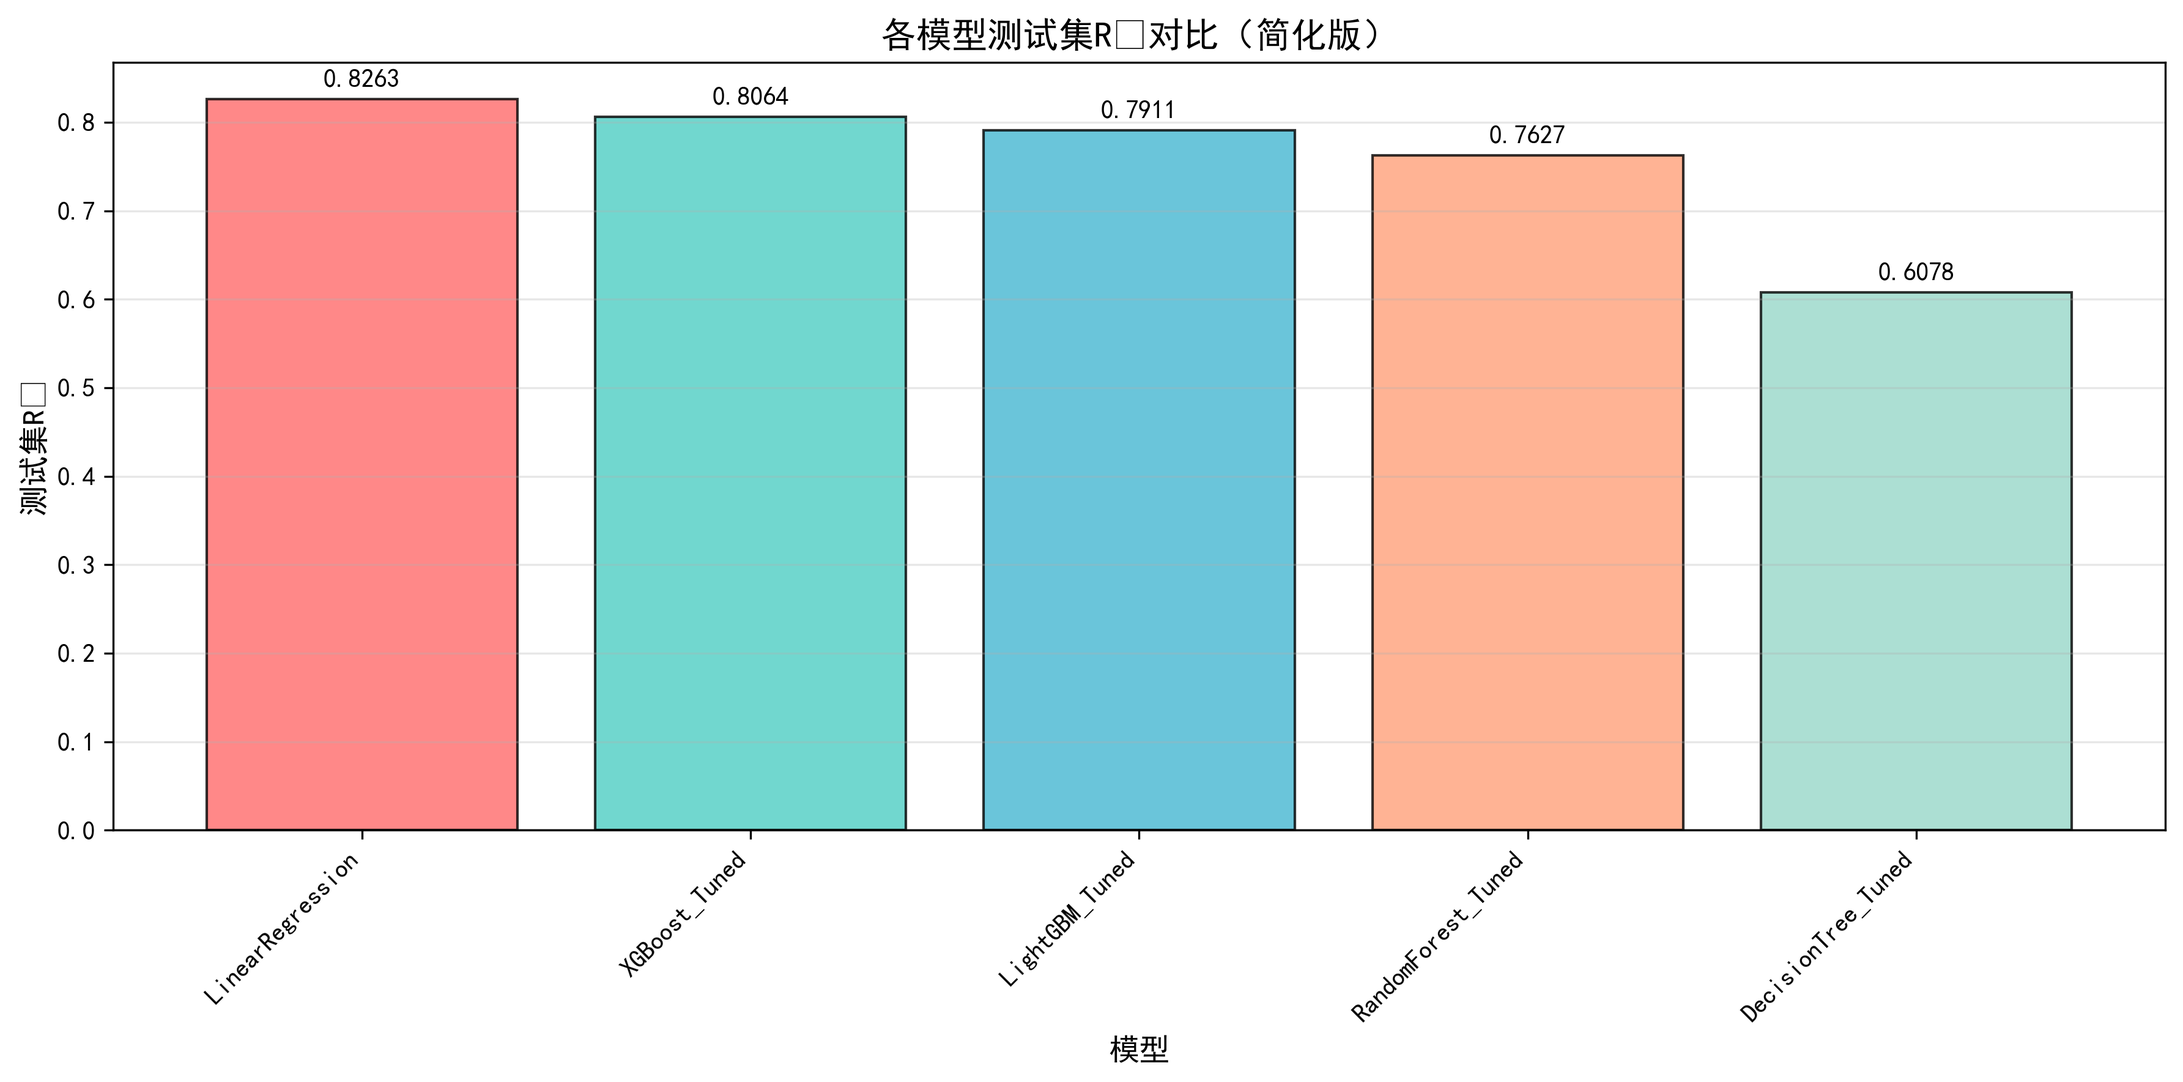
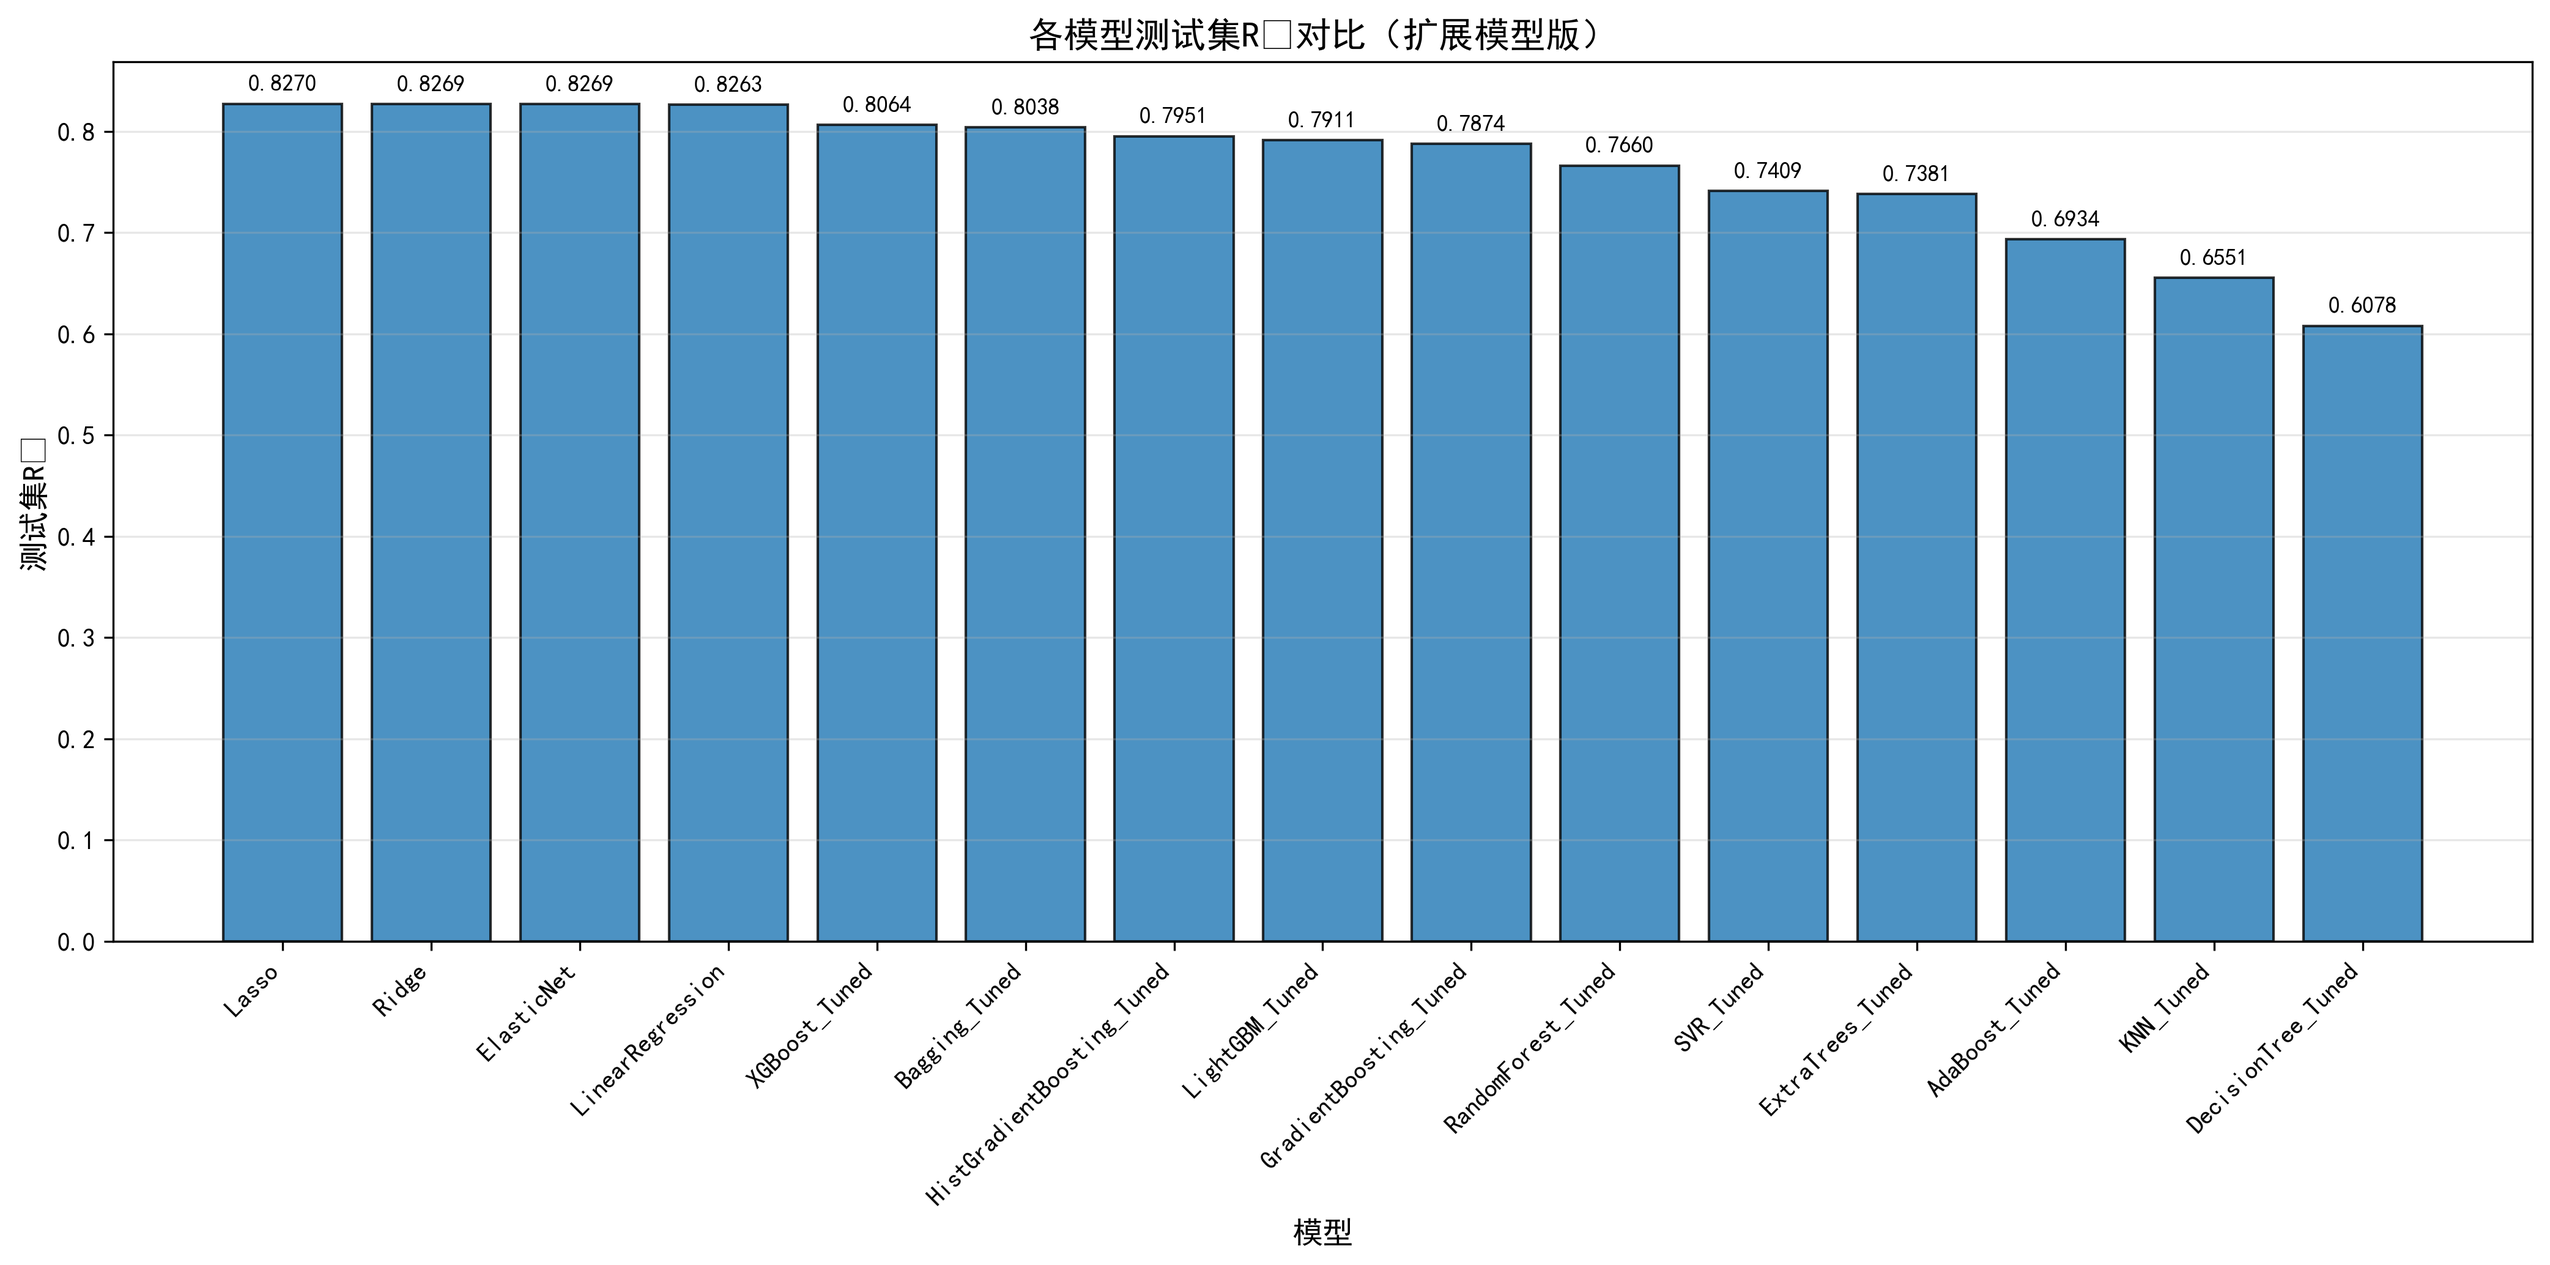
八个模型+网格搜索                        模型   训练集R²   测试集R²  测试集MSE  测试集RMSE 1                   Lasso  0.8295  0.8270  0.3308   0.5752 0        LinearRegression  0.8297  0.8263  0.3322   0.5763 7               SVR_Tuned  0.8512  0.8140  0.3557   0.5964 8           XGBoost_Tuned  0.9225  0.8123  0.3590   0.

diff --git a/T2ShortVideos/test1.py b/T2ShortVideos/test1.py
@@ -10,9 +10,15 @@ import re
 from sklearn.model_selection import train_test_split, cross_val_score, GridSearchCV
 from sklearn.preprocessing import StandardScaler
 from sklearn.metrics import mean_squared_error, r2_score
-from sklearn.linear_model import LinearRegression
+from sklearn.linear_model import LinearRegression, Lasso
 from sklearn.tree import DecisionTreeRegressor
-from sklearn.ensemble import RandomForestRegressor
+from sklearn.ensemble import (
+    RandomForestRegressor,
+    ExtraTreesRegressor,
+    GradientBoostingRegressor,
+    BaggingRegressor,
+)
+from sklearn.svm import SVR
 import xgboost as xgb
 import lightgbm as lgb
 
@@ -21,7 +27,6 @@ warnings.filterwarnings("ignore")
 plt.rcParams["font.sans-serif"] = ["SimHei"]
 plt.rcParams["axes.unicode_minus"] = False
 plt.rcParams["figure.figsize"] = (10, 6)
-
 
 
 # ========================= 1. 数据读取与基础探索 =========================
@@ -40,7 +45,7 @@ def load_and_explore_data(file_path):
     return df
 
 
-# ========================= 2. 特征工程（简化特征，解决区分度不足） =========================
+# ========================= 2. 特征工程（保持原样，不改数据处理方式） =========================
 def feature_engineering(df):
     """特征工程：简化特征维度，避免冗余"""
 
@@ -159,7 +164,7 @@ def feature_engineering(df):
     return df
 
 
-# ========================= 3. 建模数据准备（简化特征维度） =========================
+# ========================= 3. 建模数据准备（保持原样，不改数据处理方式） =========================
 def prepare_model_data(df):
     """准备建模数据：简化特征，避免维度爆炸"""
     # 仅保留核心特征（减少特征数，解决分裂增益问题）
@@ -215,48 +220,52 @@ def prepare_model_data(df):
     )
 
     print(f"建模数据集形状：{model_df.shape}")
-    print(f"最终特征数：{X.shape[1]}个（原23个→现≤15个）")
+    print(f"最终特征数：{X.shape[1]}个")
     print(f"训练集形状：{X_train_final.shape}")
     print(f"测试集形状：{X_test_final.shape}")
     return X_train_final, X_test_final, y_train, y_test, X, numeric_features
 
 
-# ========================= 4. 模型训练与调优（简化网格，解决卡顿） =========================
+# ========================= 4. 模型训练与调优（仅保留指定模型） =========================
 def train_and_tune_models(X_train, X_test, y_train, y_test):
-    """模型训练：简化调优网格，降低计算量"""
-    # 基础模型定义
+    """模型训练：仅保留用户指定模型，并对指定模型做网格搜索调优"""
+
+    # 基础模型：只保留 LinearRegression 和 Lasso
+    # 基础模型：保留 LinearRegression、Lasso，以及 8 个待调优模型的基础版
     base_models = {
         "LinearRegression": LinearRegression(),
-        "DecisionTree": DecisionTreeRegressor(random_state=42, max_depth=3),  # 限制树深度
-        "RandomForest": RandomForestRegressor(n_estimators=50, random_state=42, n_jobs=2, max_depth=5),  # 简化参数
-        "XGBoost": xgb.XGBRegressor(objective="reg:squarederror", random_state=42, n_jobs=2, max_depth=3,
-                                    n_estimators=50),
+        "Lasso": Lasso(alpha=0.001, max_iter=5000),
 
+        "DecisionTree": DecisionTreeRegressor(random_state=42),
+        "RandomForest": RandomForestRegressor(random_state=42, n_jobs=2),
+        "ExtraTrees": ExtraTreesRegressor(random_state=42, n_jobs=2),
+        "GradientBoosting": GradientBoostingRegressor(random_state=42),
+        "Bagging": BaggingRegressor(random_state=42, n_jobs=2),
+        "SVR": SVR(),
+        "XGBoost": xgb.XGBRegressor(
+            objective="reg:squarederror",
+            random_state=42,
+            n_jobs=2
+        ),
         "LightGBM": lgb.LGBMRegressor(
             objective="regression",
             random_state=42,
             n_jobs=2,
-            max_depth=3,
-            n_estimators=30,
-            num_leaves=15,
-            min_split_gain=0.01,  # 新增：最小分裂增益（低于此值不分裂）
-            min_child_weight=0.01,  # 新增：叶子节点最小权重
             verbose=-1
-        )
+        ),
     }
 
-    # 基础模型评估
     def evaluate_base_models(models, X, y):
         results = []
         for name, model in models.items():
-            r2_scores = cross_val_score(model, X, y, scoring="r2", cv=5)  # 简化为3折交叉验证
+            r2_scores = cross_val_score(model, X, y, scoring="r2", cv=5)
             mse_scores = -cross_val_score(model, X, y, scoring="neg_mean_squared_error", cv=5)
             rmse_scores = np.sqrt(mse_scores)
             results.append({
                 "模型": name,
                 "5折R²均值": round(r2_scores.mean(), 4),
                 "5折MSE均值": round(mse_scores.mean(), 4),
-                "5折RMSE均值": round(rmse_scores.mean(), 4)
+                "5折RMSE均值": round(rmse_scores.mean(), 4),
             })
         return pd.DataFrame(results).sort_values("5折R²均值", ascending=False)
 
@@ -266,50 +275,97 @@ def train_and_tune_models(X_train, X_test, y_train, y_test):
     print("=" * 50)
     print(base_results)
 
-    # 简化XGBoost调优（缩小网格）
-    xgb_param_grid = {
-        "max_depth": [3, 5],
-        "learning_rate": [0.05, 0.1],
-        "n_estimators": [50, 100],
-        "subsample": [0.8, 1.0]
+    # 各调优模型参数网格
+    param_grids = {
+        "DecisionTree_Tuned": {
+            "max_depth": [3, 5, 7, None],
+            "min_samples_split": [2, 5, 10],
+            "min_samples_leaf": [1, 3, 5, 10],
+        },
+        "RandomForest_Tuned": {
+            "n_estimators": [80, 120],
+            "max_depth": [5, 8, None],
+            "min_samples_split": [2, 5],
+            "min_samples_leaf": [1, 3, 5],
+        },
+        "ExtraTrees_Tuned": {
+            "n_estimators": [80, 120],
+            "max_depth": [5, 8, None],
+            "min_samples_split": [2, 5],
+            "min_samples_leaf": [1, 3, 5],
+        },
+        "GradientBoosting_Tuned": {
+            "n_estimators": [80, 120],
+            "learning_rate": [0.03, 0.05, 0.1],
+            "max_depth": [2, 3, 4],
+            "subsample": [0.8, 1.0],
+        },
+        "Bagging_Tuned": {
+            "n_estimators": [50, 80, 120],
+            "max_samples": [0.8, 1.0],
+            "max_features": [0.8, 1.0],
+        },
+        "SVR_Tuned": {
+            "kernel": ["rbf"],
+            "C": [1, 10, 30],
+            "epsilon": [0.05, 0.1, 0.2],
+            "gamma": ["scale", "auto"],
+        },
+        "XGBoost_Tuned": {
+            "max_depth": [3, 5],
+            "learning_rate": [0.03, 0.05, 0.1],
+            "n_estimators": [50, 100, 150],
+            "subsample": [0.8, 1.0],
+            "colsample_bytree": [0.8, 1.0],
+        },
+        "LightGBM_Tuned": {
+            "max_depth": [3, 4, 5],
+            "learning_rate": [0.03, 0.05, 0.1],
+            "n_estimators": [50, 80, 120],
+            "num_leaves": [8, 15, 31],
+            "min_child_samples": [15, 30, 50],
+            "subsample": [0.8, 1.0],
+            "reg_alpha": [0.0, 0.1, 0.5],
+            "reg_lambda": [0.0, 0.1, 0.5],
+        },
     }
-    xgb_grid = GridSearchCV(
-        estimator=xgb.XGBRegressor(objective="reg:squarederror", random_state=42, n_jobs=2),
-        param_grid=xgb_param_grid, scoring="r2", cv=5, n_jobs=1, verbose=0  # 单线程调优，避免内存溢出
-    )
-    xgb_grid.fit(X_train, y_train)
-    best_xgb = xgb_grid.best_estimator_
 
-    # 简化LightGBM调优（核心：解决no split gain问题）
-    lgb_param_grid = {
-        "max_depth": [3, 4],
-        "learning_rate": [0.05, 0.1],
-        "n_estimators": [30, 80],  # 减少迭代数，避免无意义分裂
-        "num_leaves": [8, 15],  # 进一步减少叶子数
-        "min_child_samples": [15, 50],  # 提高叶子节点最小样本数
-        "subsample": [0.8, 1.0],
-        "min_split_gain": [0.01, 0.05],  # 新增：限制最小分裂增益
-        "reg_alpha": [0.1, 0.5],  # 新增：L1正则，减少过拟合
-        "reg_lambda": [0.1, 0.5]  # 新增：L2正则，平滑分裂
+    estimators = {
+        "DecisionTree_Tuned": DecisionTreeRegressor(random_state=42),
+        "RandomForest_Tuned": RandomForestRegressor(random_state=42, n_jobs=2),
+        "ExtraTrees_Tuned": ExtraTreesRegressor(random_state=42, n_jobs=2),
+        "GradientBoosting_Tuned": GradientBoostingRegressor(random_state=42),
+        "Bagging_Tuned": BaggingRegressor(random_state=42, n_jobs=2),
+        "SVR_Tuned": SVR(),
+        "XGBoost_Tuned": xgb.XGBRegressor(objective="reg:squarederror", random_state=42, n_jobs=2),
+        "LightGBM_Tuned": lgb.LGBMRegressor(objective="regression", random_state=42, n_jobs=2, verbosity=-1),
     }
-    lgb_grid = GridSearchCV(
-        estimator=lgb.LGBMRegressor(objective="regression", random_state=42, n_jobs=2, verbosity=-1),
-        param_grid=lgb_param_grid, scoring="r2", cv=5, n_jobs=1, verbose=0
-    )
-    lgb_grid.fit(X_train, y_train)
-    best_lgb = lgb_grid.best_estimator_
 
-    # 调优后模型集合
-    tuned_models = {
+    best_models = {}
+    for model_name, estimator in estimators.items():
+        print("\n" + "-" * 50)
+        print(f"正在调优：{model_name}")
+        print("-" * 50)
+        grid = GridSearchCV(
+            estimator=estimator,
+            param_grid=param_grids[model_name],
+            scoring="r2",
+            cv=5,
+            n_jobs=1,
+            verbose=0,
+        )
+        grid.fit(X_train, y_train)
+        best_models[model_name] = grid.best_estimator_
+        print(f"最佳参数：{grid.best_params_}")
+        print(f"最佳CV R²：{grid.best_score_:.4f}")
+
+    # 最终模型集合：基础模型 + 调优模型
+    final_models = {
         "LinearRegression": LinearRegression(),
-        "DecisionTree_Tuned": DecisionTreeRegressor(random_state=42, max_depth=3, min_samples_leaf=10),
-        "RandomForest_Tuned": RandomForestRegressor(random_state=42, max_depth=5, min_samples_leaf=5, n_estimators=50,
-                                                    n_jobs=2),
-        "XGBoost_Tuned": best_xgb,
-        "LightGBM_Tuned": best_lgb
+        "Lasso": Lasso(alpha=0.001, max_iter=5000),
+        **best_models,
     }
 
-    # 最终评估
     def final_evaluate(models, X_train, X_test, y_train, y_test):
         results = []
         for name, model in models.items():
@@ -321,59 +377,58 @@ def train_and_tune_models(X_train, X_test, y_train, y_test):
                 "训练集R²": round(r2_score(y_train, y_train_pred), 4),
                 "测试集R²": round(r2_score(y_test, y_test_pred), 4),
                 "测试集MSE": round(mean_squared_error(y_test, y_test_pred), 4),
-                "测试集RMSE": round(np.sqrt(mean_squared_error(y_test, y_test_pred)), 4)
+                "测试集RMSE": round(np.sqrt(mean_squared_error(y_test, y_test_pred)), 4),
             })
         return pd.DataFrame(results).sort_values("测试集R²", ascending=False)
 
-    final_results = final_evaluate(tuned_models, X_train, X_test, y_train, y_test)
+    final_results = final_evaluate(final_models, X_train, X_test, y_train, y_test)
     print("\n" + "=" * 50)
     print("调优后模型最终评估结果")
     print("=" * 50)
     print(final_results)
 
-    # 输出最优模型
     best_model_name = final_results.iloc[0]["模型"]
-    best_model = tuned_models[best_model_name]
+    best_model = final_models[best_model_name]
     print(f"\n最优模型：{best_model_name}（测试集R²={final_results.iloc[0]['测试集R²']:.4f}）")
-    return best_model, final_results, best_xgb, best_lgb
+
+    return best_model, final_results, best_models["XGBoost_Tuned"], best_models["LightGBM_Tuned"]
 
 
 # ========================= 5. 可视化结果 =========================
 def visualize_results(best_model, final_results, X_test, y_test, X, best_lgb):
     """可视化模型结果"""
     # 5.1 模型性能对比图
-    plt.figure(figsize=(12, 6))
+    plt.figure(figsize=(14, 7))
     models = final_results["模型"]
     test_r2 = final_results["测试集R²"]
-    colors = ["#FF6B6B", "#4ECDC4", "#45B7D1", "#FFA07A", "#98D8C8"]
 
-    bars = plt.bar(models, test_r2, color=colors, edgecolor="black", alpha=0.8)
+    bars = plt.bar(models, test_r2, edgecolor="black", alpha=0.8)
     for bar, r2 in zip(bars, test_r2):
         height = bar.get_height()
         plt.text(bar.get_x() + bar.get_width() / 2., height + 0.01,
-                 f"{r2:.4f}", ha='center', va='bottom', fontsize=10)
+                 f"{r2:.4f}", ha='center', va='bottom', fontsize=9)
 
     plt.axhline(y=0, color='black', linestyle='-', linewidth=0.8)
     plt.xlabel("模型", fontsize=12)
-    plt.ylabel("测试集R²", fontsize=12)
-    plt.title("各模型测试集R²对比（简化版）", fontsize=14, fontweight="bold")
+    plt.ylabel("测试集R方", fontsize=12)
+    plt.title("各模型测试集R方对比（指定模型版）", fontsize=14, fontweight="bold")
     plt.xticks(rotation=45, ha='right')
     plt.grid(axis='y', alpha=0.3)
     plt.tight_layout()
-    plt.savefig("模型R²对比图.png", dpi=300, bbox_inches='tight')
+    plt.savefig("模型R方对比图.png", dpi=300, bbox_inches='tight')
     plt.show()
 
     # 5.2 最优模型预测对比图
     y_test_pred = best_model.predict(X_test)
     plt.figure(figsize=(10, 6))
-    plt.scatter(y_test, y_test_pred, alpha=0.6, s=30, color="#45B7D1")
+    plt.scatter(y_test, y_test_pred, alpha=0.6, s=30)
     min_val = min(y_test.min(), y_test_pred.min())
     max_val = max(y_test.max(), y_test_pred.max())
     plt.plot([min_val, max_val], [min_val, max_val], "r--", linewidth=2, label="完美预测线")
 
-    plt.xlabel("真实销量（log变换后）", fontsize=12)
-    plt.ylabel("预测销量（log变换后）", fontsize=12)
-    plt.title(f"{best_model.__class__.__name__}模型：真实值vs预测值（R²={r2_score(y_test, y_test_pred):.4f}）",
+    plt.xlabel("真实销量", fontsize=12)
+    plt.ylabel("预测销量", fontsize=12)
+    plt.title(f"{best_model.__class__.__name__}模型：真实值vs预测值（R方={r2_score(y_test, y_test_pred):.4f}）",
               fontsize=14, fontweight="bold")
     plt.legend()
     plt.grid(alpha=0.3)
@@ -385,11 +440,10 @@ def visualize_results(best_model, final_results, X_test, y_test, X, best_lgb):
     feature_importance = pd.DataFrame({
         "特征": X.columns,
         "重要性": best_lgb.feature_importances_
-    }).sort_values("重要性", ascending=False).head(10)  # 简化为Top10
+    }).sort_values("重要性", ascending=False).head(10)
 
     plt.figure(figsize=(12, 8))
-    bars = plt.barh(feature_importance["特征"][::-1], feature_importance["重要性"][::-1], color="#FFA07A",
-                    edgecolor="black")
+    bars = plt.barh(feature_importance["特征"][::-1], feature_importance["重要性"][::-1], edgecolor="black")
     for bar, imp in zip(bars, feature_importance["重要性"][::-1]):
         width = bar.get_width()
         plt.text(width + 0.5, bar.get_y() + bar.get_height() / 2.,
@@ -403,33 +457,20 @@ def visualize_results(best_model, final_results, X_test, y_test, X, best_lgb):
     plt.savefig("特征重要性图.png", dpi=300, bbox_inches='tight')
     plt.show()
 
-    # 输出特征重要性排名
     print("\n" + "=" * 50)
     print("LightGBM模型Top10特征重要性")
     print("=" * 50)
     print(feature_importance.head(10).to_string(index=False))
 
 
-
-# ========================= 7. 主函数 =========================
+# ========================= 6. 主函数 =========================
 def main(file_path):
     """主函数：执行全流程建模"""
-    # 1. 数据读取与探索
     df = load_and_explore_data(file_path)
-
-    # 2. 特征工程
     df = feature_engineering(df)
-
-    # 3. 建模数据准备
     X_train_final, X_test_final, y_train, y_test, X, numeric_features = prepare_model_data(df)
-
-    # 4. 模型训练与调优
     best_model, final_results, best_xgb, best_lgb = train_and_tune_models(X_train_final, X_test_final, y_train, y_test)
-
-    # 5. 可视化结果
     visualize_results(best_model, final_results, X_test_final, y_test, X, best_lgb)
-
-
 
     print("\n" + "=" * 50)
     print("建模流程全部完成！生成文件：")
@@ -441,8 +482,5 @@ def main(file_path):
 
 # ========================= 运行入口 =========================
 if __name__ == "__main__":
-    # 请修改为你的数据文件路径
-    DATA_FILE_PATH = "短视频营销数据.xlsx"  # 或完整路径如"D:/数据/短视频营销数据.xlsx"
-
-    # 执行全流程建模
+    DATA_FILE_PATH = "短视频营销数据.xlsx"
     main(DATA_FILE_PATH)
